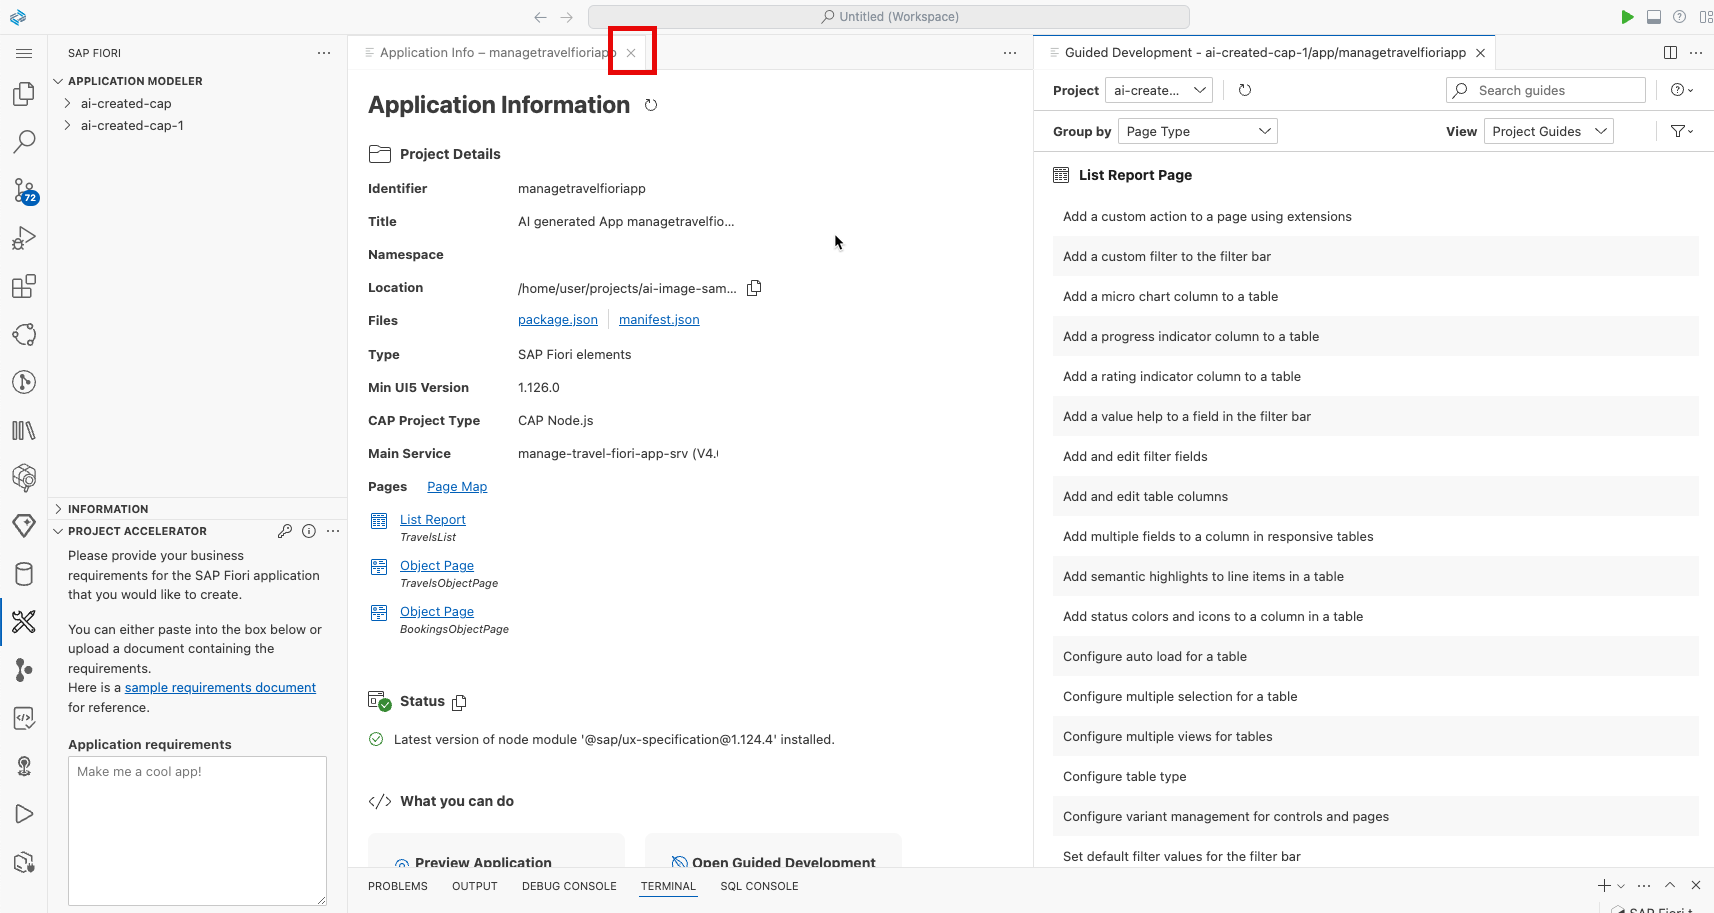
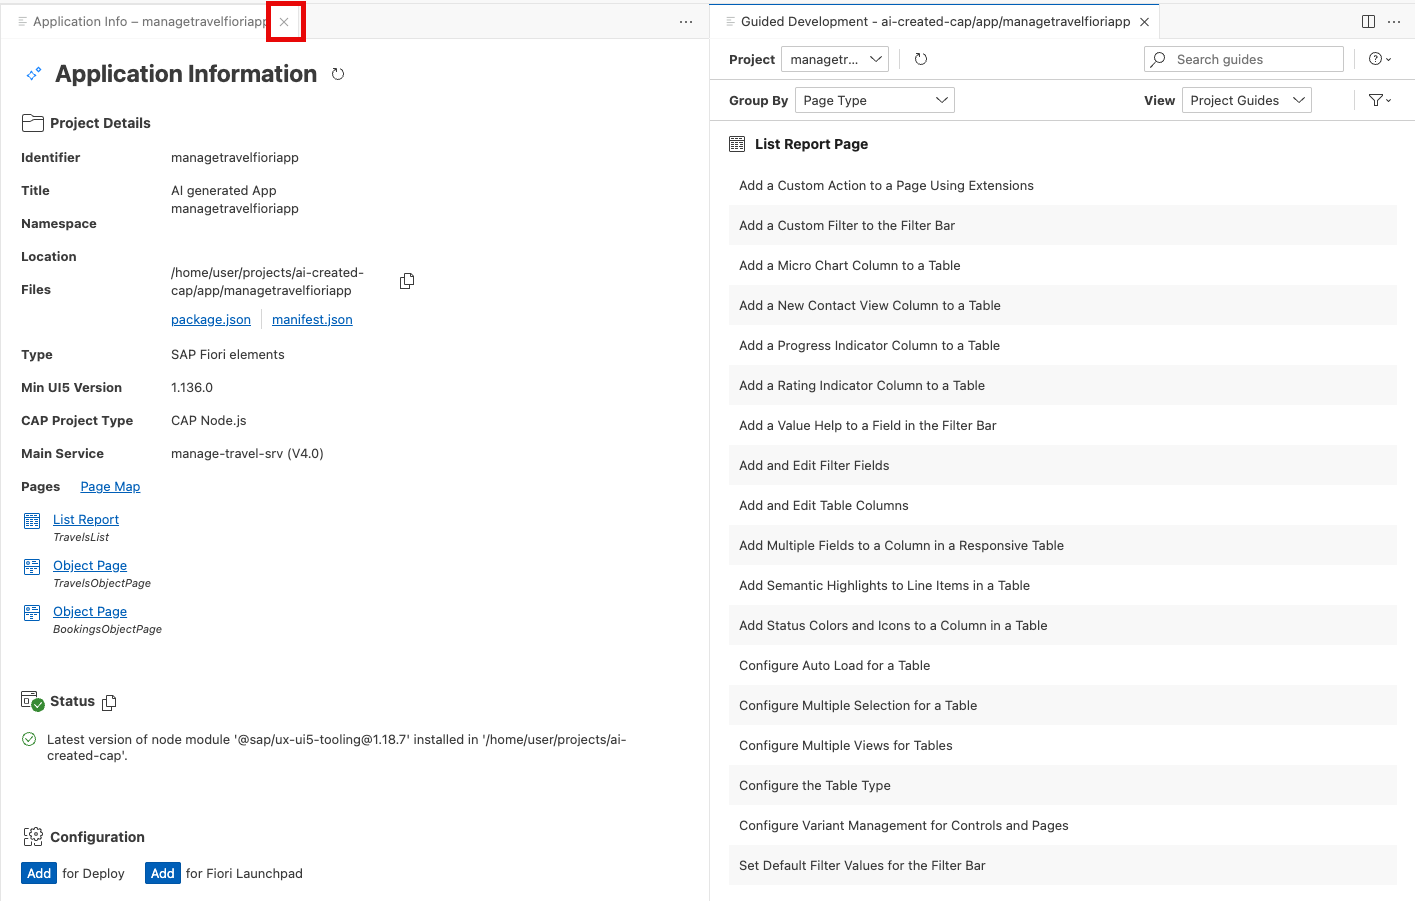
Update ex3

diff --git a/exercises/ex3/README.md b/exercises/ex3/README.md
@@ -17,14 +17,11 @@ The Preview should look like this:
 ![image](ex3img2_2.png)
 
 1. Next, navigate to **SAP Fiori** in your Business Application Studio menu on the left side.
-2. Click on **Choose file (md, txt, jpg)**
-3. Select the **TravelScenario.png** from the drop down.
+1. Click on **Launch Project Accelerator**
+1. Click on **Choose file**
+1. Select the **TravelScenario.png** from the drop down.
 
 ![image](ex3img3.png)
-
-If **Project folder path** appears in **Project Accelerator**, please ensure that the path `/home/user/projects/ai-image-samples/` is inputted
-
-![image](ex3img3-1.png)
 
 Click **Generate**
 
@@ -53,7 +50,7 @@ As a next step we want to enhance our AI generated app. To do this switch back f
 
 ![image](ex3img7.png)
 
-Now you can see the page map for our AI generated Travel app. Please check if you can see the **Advanced Features Are Enabled** sign up top. If this is the case, press the edit button on the list report.
+Now you can see the page map for our AI generated Travel app. Please check if you can see the **Advanced features are enabled (Experimental)** sign up top. If this is the case, press the edit button on the list report.
 
 ![image](ex3img8.png)
 
@@ -62,7 +59,7 @@ Please find the columns section and press the **Add column** button.
 
 ![image](ex3img9.png)
 
-Now we want to select *Add Basic Columns** from the drop down menu.
+Now we want to select **Add Basic Columns** from the drop down menu.
 
 ![image](ex3img10.png)
 
@@ -79,7 +76,7 @@ In the input field, type in **Business** and set the checkmark on the left hand 
 
 ![image](ex3img13.png)
 
-Click Add.
+Click **Add**.
 
 ![image](ex3img14.png)
 
@@ -106,7 +103,7 @@ Once this is done, we want to preview the app again to see the newly created col
 
 ## Exercise 3.3 Use Ai to refine Test Data 
 
- If you successfully previewed the two new columns (Business and Destination). We can now press the **Use Ai to refine Test Data** Button. 
+ If you successfully previewed the two new columns (Business and Destination). We can now press the **Use Ai to refine Test Data** Button. To do this switch back from your **Preview** tab in your browser to your **Business Application Studio** tab again.
 
  ![image](ex3img21.png)
 
@@ -121,7 +118,7 @@ Click inside of the terminal field and press:<br>
 **CTRL + c (on Windows)**<br>
 
 You should now see<br>**(CDS) - my watch has ended<br>
-user: fiori-tools-ai $**
+user: ai-created-cap $**
 
 ![image](ex3img191.png)
 
@@ -253,6 +250,12 @@ Select ![](image31.png).
 
 ![](image30.png)
 
+1. Click ![](image33.png) to reveal the dropdown for **Value Source**.
+
+2. Select **bookings**.
+
+![](image321.png)
+
 
 1. Click ![](image33.png) to reveal the dropdown for **Aggregation Path**.
 
@@ -291,7 +294,7 @@ In the page editor, click **Edit in source code** ![](image48.png) for filter fi
 
 ![](image47.png)
 
-For the filter field, we will now enable the usage of semantic date values, such as **Today** or **Last Week**, by applying annotation ****FilterRestrictions.AllowedExpressions** as described in [the documentation](https://ui5.sap.com/#/topic/fef65d03d01a4b2baca28983a5449cf7).\
+For the filter field, we will now enable the usage of semantic date values, such as **Today** or **Last Week**, by applying annotation **FilterRestrictions.AllowedExpressions** as described in [the documentation](https://ui5.sap.com/#/topic/fef65d03d01a4b2baca28983a5449cf7).\
 Please copy the Code snippet below and paste it on the exact position that is shown in the picture:
 
 ```
@@ -331,7 +334,7 @@ Close the **Application Info** tab to free up more space in the editor.
 ![](image532.png)
 
 1. Now use the search on the top right hand of the screen and type in **"Table Building Block"**
-2. Click on **"Add a table building block"**
+2. Click on **"Add a Table Building Block"**
 
 ![](image533.png)
 
@@ -364,7 +367,7 @@ In the second step of the guide, fill in the required fields as depicted below.
 
 Switch to your preview tab to see the result. You can now specify a range in the newly added filter bar.
 1. Select a travel entry in the List Report to open the travel details in the object page.
-2. In the **Bookings** section, open filter field **Flight Date** and select a date range.
+2. In the **Bookings** section, open filter field **Flight Date**, go to **Date Ranges** and select **From / To**.
 3. Click **Apply**.
 
 ![](image56.png)
